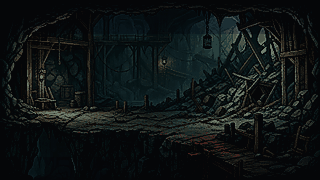
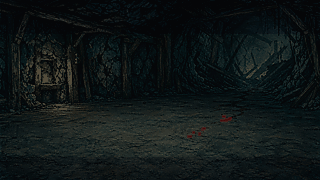
art: harmonize mine investigation background

diff --git a/scripts/tools/export_mine_investigation_background_assets.py b/scripts/tools/export_mine_investigation_background_assets.py
@@ -41,7 +41,20 @@ def normalize_background(reference: Image.Image, native_size: tuple[int, int]) -
     color = ImageEnhance.Color(contrast).enhance(0.86)
     balanced = ImageEnhance.Brightness(color).enhance(0.82)
     native = quantize_rgba(balanced, 72)
+    source_pixels = fitted.load()
     pixels = native.load()
+
+    def has_blood_hint(px: int, py: int) -> bool:
+        if not (180 <= px <= 236 and 116 <= py <= 138):
+            return False
+        source_red, source_green, source_blue = source_pixels[px, py]
+        return (
+            source_red >= 25
+            and source_red >= max(source_green, source_blue) + 3
+            and source_red >= source_green * 1.08
+            and source_red >= source_blue * 1.04
+        )
+
     for y in range(native.height):
         for x in range(native.width):
             red, green, blue, alpha = pixels[x, y]
@@ -63,12 +76,34 @@ def normalize_background(reference: Image.Image, native_size: tuple[int, int]) -
                 red = min(red, 112)
                 green = min(green, 118)
                 blue = min(blue, 128)
-            if 58 <= x <= 244 and 132 <= y <= 156 and red >= 35 and red >= green * 0.92 and red >= blue * 1.04:
+            is_blood_source = any(
+                has_blood_hint(nx, ny)
+                for ny in range(max(0, y - 1), min(native.height, y + 2))
+                for nx in range(max(0, x - 1), min(native.width, x + 2))
+            )
+            if is_blood_source:
                 red = max(red, 68)
                 green = min(green, 34)
                 blue = min(blue, 30)
+            elif 58 <= x <= 244 and 132 <= y <= 156 and red >= green * 1.08 and red >= blue * 1.08:
+                red = min(red, max(28, int((green + blue) * 0.55)))
             pixels[x, y] = (max(5, red), max(6, green), max(8, blue), alpha)
     return native
+
+
+def item_preview_size(
+    item: Image.Image,
+    item_id: str,
+    collision_sizes: dict[str, list[int]],
+    visual_scales: dict[str, float],
+) -> tuple[int, int]:
+    collision_size = collision_sizes.get(item_id)
+    if collision_size is None:
+        return (max(12, item.width // 2), max(12, item.height // 2))
+    visual_scale = float(visual_scales.get(item_id, 0.84))
+    width = max(8, int(round(collision_size[0] * visual_scale * 0.5)))
+    height = max(8, int(round(collision_size[1] * visual_scale * 0.5)))
+    return (width, height)
 
 
 def is_chroma_key(red: int, green: int, blue: int) -> bool:
@@ -129,7 +164,15 @@ def save_nearest(native: Image.Image, native_path: Path, runtime_path: Path, run
     return runtime
 
 
-def paste_item_overlay(sheet: Image.Image, background_preview: Image.Image, shadow_runtime: Image.Image, positions: dict[str, list[int]], origin: tuple[int, int]) -> None:
+def paste_item_overlay(
+    sheet: Image.Image,
+    background_preview: Image.Image,
+    shadow_runtime: Image.Image,
+    positions: dict[str, list[int]],
+    collision_sizes: dict[str, list[int]],
+    visual_scales: dict[str, float],
+    origin: tuple[int, int],
+) -> None:
     preview = background_preview.copy()
     for item_id, position in positions.items():
         item_path = ITEM_RUNTIME / f"{item_id}.png"
@@ -140,7 +183,7 @@ def paste_item_overlay(sheet: Image.Image, background_preview: Image.Image, shad
         y = int(position[1] * 0.5)
         shadow_preview = shadow_runtime.resize((80, 28), Image.Resampling.NEAREST)
         preview.alpha_composite(shadow_preview, (x - shadow_preview.width // 2, y - 4))
-        item_preview = ImageOps.contain(item, (max(12, item.width // 2), max(12, item.height // 2)), Image.Resampling.NEAREST)
+        item_preview = ImageOps.contain(item, item_preview_size(item, item_id, collision_sizes, visual_scales), Image.Resampling.NEAREST)
         preview.alpha_composite(item_preview, (x - item_preview.width // 2, y - item_preview.height // 2))
     sheet.alpha_composite(preview, origin)
 
@@ -159,7 +202,15 @@ def make_contact_sheet(reference: Image.Image, background_native: Image.Image, b
     sheet.alpha_composite(native_preview, (510, 72))
     draw.text((20, 348), "runtime item overlay preview", fill=(226, 210, 178, 255))
     overlay_bg = ImageOps.contain(background_runtime.convert("RGBA"), (640, 360), Image.Resampling.NEAREST)
-    paste_item_overlay(sheet, overlay_bg, shadow_runtime, manifest["review"]["item_overlay_positions_runtime"], (20, 374))
+    paste_item_overlay(
+        sheet,
+        overlay_bg,
+        shadow_runtime,
+        manifest["review"]["item_overlay_positions_runtime"],
+        manifest["review"].get("item_collision_sizes_runtime", {}),
+        manifest["review"].get("item_visual_scales", {}),
+        (20, 374),
+    )
     draw.text((700, 348), "shadow native 4x", fill=(226, 210, 178, 255))
     shadow_preview = shadow_native.resize((shadow_native.width * 4, shadow_native.height * 4), Image.Resampling.NEAREST)
     sheet.alpha_composite(shadow_preview, (700, 384))

diff --git a/scripts/tools/prepare_mine_investigation_background_sources.py b/scripts/tools/prepare_mine_investigation_background_sources.py
@@ -8,11 +8,11 @@ from PIL import Image, ImageOps
 
 ROOT = Path(__file__).resolve().parents[2]
 RAW_DIR = ROOT / "art_sources" / "generated_raw" / "mine_investigation_background"
-RAW_BACKGROUND = RAW_DIR / "mine_background_reference_v1.png"
+RAW_BACKGROUND = RAW_DIR / "mine_background_reference_v2.png"
 RAW_SHADOW = RAW_DIR / "mine_item_shadow_source_v1.png"
 SOURCE = ROOT / "assets" / "source" / "investigation" / "mine_background"
 REFERENCE_DIR = SOURCE / "reference"
-REFERENCE_BACKGROUND = REFERENCE_DIR / "mine_background_reference_v1.png"
+REFERENCE_BACKGROUND = REFERENCE_DIR / "mine_background_reference_v2.png"
 REFERENCE_SHADOW = REFERENCE_DIR / "mine_item_shadow_source_v1.png"
 MANIFEST = SOURCE / "mine_background_manifest.json"
 BACKGROUND_REFERENCE_SIZE = (1280, 720)
@@ -64,6 +64,26 @@ def write_manifest() -> None:
         },
         "review": {
             "contact_sheet": "docs/art/mine_investigation_background_contact_sheet.png",
+            "item_collision_sizes_runtime": {
+                "broken_arrow": [48, 16],
+                "dented_shield": [64, 64],
+                "lost_boot": [56, 36],
+                "rubble": [120, 90],
+                "torn_backpack": [72, 56],
+                "coins": [20, 20],
+                "warhammer_token": [28, 28],
+                "bloodied_paper": [40, 52],
+            },
+            "item_visual_scales": {
+                "broken_arrow": 0.88,
+                "dented_shield": 0.78,
+                "lost_boot": 0.86,
+                "rubble": 0.72,
+                "torn_backpack": 0.82,
+                "coins": 0.95,
+                "warhammer_token": 0.92,
+                "bloodied_paper": 0.90,
+            },
             "item_overlay_positions_runtime": {
                 "broken_arrow": [260, 470],
                 "dented_shield": [380, 460],

diff --git a/scripts/test/test_mine_investigation_background_pipeline.py b/scripts/test/test_mine_investigation_background_pipeline.py
@@ -9,12 +9,12 @@ from PIL import Image
 
 ROOT = Path(__file__).resolve().parents[2]
 RAW_DIR = ROOT / "art_sources" / "generated_raw" / "mine_investigation_background"
-RAW_BACKGROUND = RAW_DIR / "mine_background_reference_v1.png"
-RAW_BACKGROUND_PROMPT = RAW_DIR / "mine_background_prompt_v1.txt"
+RAW_BACKGROUND = RAW_DIR / "mine_background_reference_v2.png"
+RAW_BACKGROUND_PROMPT = RAW_DIR / "mine_background_prompt_v2.txt"
 RAW_SHADOW = RAW_DIR / "mine_item_shadow_source_v1.png"
 RAW_SHADOW_PROMPT = RAW_DIR / "mine_item_shadow_prompt_v1.txt"
 SOURCE = ROOT / "assets" / "source" / "investigation" / "mine_background"
-REFERENCE_BACKGROUND = SOURCE / "reference" / "mine_background_reference_v1.png"
+REFERENCE_BACKGROUND = SOURCE / "reference" / "mine_background_reference_v2.png"
 REFERENCE_SHADOW = SOURCE / "reference" / "mine_item_shadow_source_v1.png"
 MANIFEST = SOURCE / "mine_background_manifest.json"
 BACKGROUND_NATIVE = SOURCE / "mine_background_native.png"
@@ -69,7 +69,7 @@ class MineInvestigationBackgroundPipelineTest(unittest.TestCase):
         self.assertGreater(RAW_BACKGROUND.stat().st_size, 100_000, "AI background source is unexpectedly small")
         self.assertGreater(RAW_SHADOW.stat().st_size, 10_000, "AI shadow source is unexpectedly small")
         for prompt_path, phrases in {
-            RAW_BACKGROUND_PROMPT: ("abandoned mine", "landing zones", "no text", "no labels", "without drawing complete interactive props"),
+            RAW_BACKGROUND_PROMPT: ("abandoned mine", "clear central and lower floor area", "no text", "no labels", "do not draw a foreground rubble pile"),
             RAW_SHADOW_PROMPT: ("contact shadow", "pure magenta", "no text", "no object"),
         }.items():
             self.assertTrue(prompt_path.exists(), f"{prompt_path}: missing prompt record")
@@ -84,8 +84,8 @@ class MineInvestigationBackgroundPipelineTest(unittest.TestCase):
         background = manifest["background"]
         shadow = manifest["shadow"]
         self.assertEqual(background["id"], "mine_investigation_background")
-        self.assertEqual(background["source"], "art_sources/generated_raw/mine_investigation_background/mine_background_reference_v1.png")
-        self.assertEqual(background["reference"], "assets/source/investigation/mine_background/reference/mine_background_reference_v1.png")
+        self.assertEqual(background["source"], "art_sources/generated_raw/mine_investigation_background/mine_background_reference_v2.png")
+        self.assertEqual(background["reference"], "assets/source/investigation/mine_background/reference/mine_background_reference_v2.png")
         self.assertEqual(background["native"], "assets/source/investigation/mine_background/mine_background_native.png")
         self.assertEqual(background["runtime"], "assets/ui/generated/investigation/mine_background/mine_background.png")
         self.assertEqual(background["native_size"], list(BACKGROUND_NATIVE_SIZE))
@@ -100,6 +100,8 @@ class MineInvestigationBackgroundPipelineTest(unittest.TestCase):
         self.assertEqual(shadow["runtime_size"], list(SHADOW_RUNTIME_SIZE))
         self.assertEqual(shadow["source_rect"], [0, 0, 512, 256])
         self.assertEqual(shadow["safe_area"], [2, 2, 38, 12])
+        self.assertEqual(manifest["review"]["item_visual_scales"]["rubble"], 0.72)
+        self.assertEqual(manifest["review"]["item_collision_sizes_runtime"]["rubble"], [120, 90])
 
     def test_references_native_runtime_and_contact_sheet_exist(self) -> None:
         for path in (REFERENCE_BACKGROUND, REFERENCE_SHADOW, BACKGROUND_NATIVE, SHADOW_NATIVE, BACKGROUND_RUNTIME, SHADOW_RUNTIME, CONTACT_SHEET):
@@ -159,7 +161,7 @@ class MineInvestigationBackgroundPipelineTest(unittest.TestCase):
         forbidden = [
             "art_sources/generated_raw/mine_investigation_background",
             "assets/source/investigation/mine_background/reference",
-            "mine_background_reference_v1.png",
+            "mine_background_reference_v2.png",
             "mine_item_shadow_source_v1.png",
         ]
         for root in (ROOT / "scripts" / "ui", ROOT / "scenes" / "ui"):